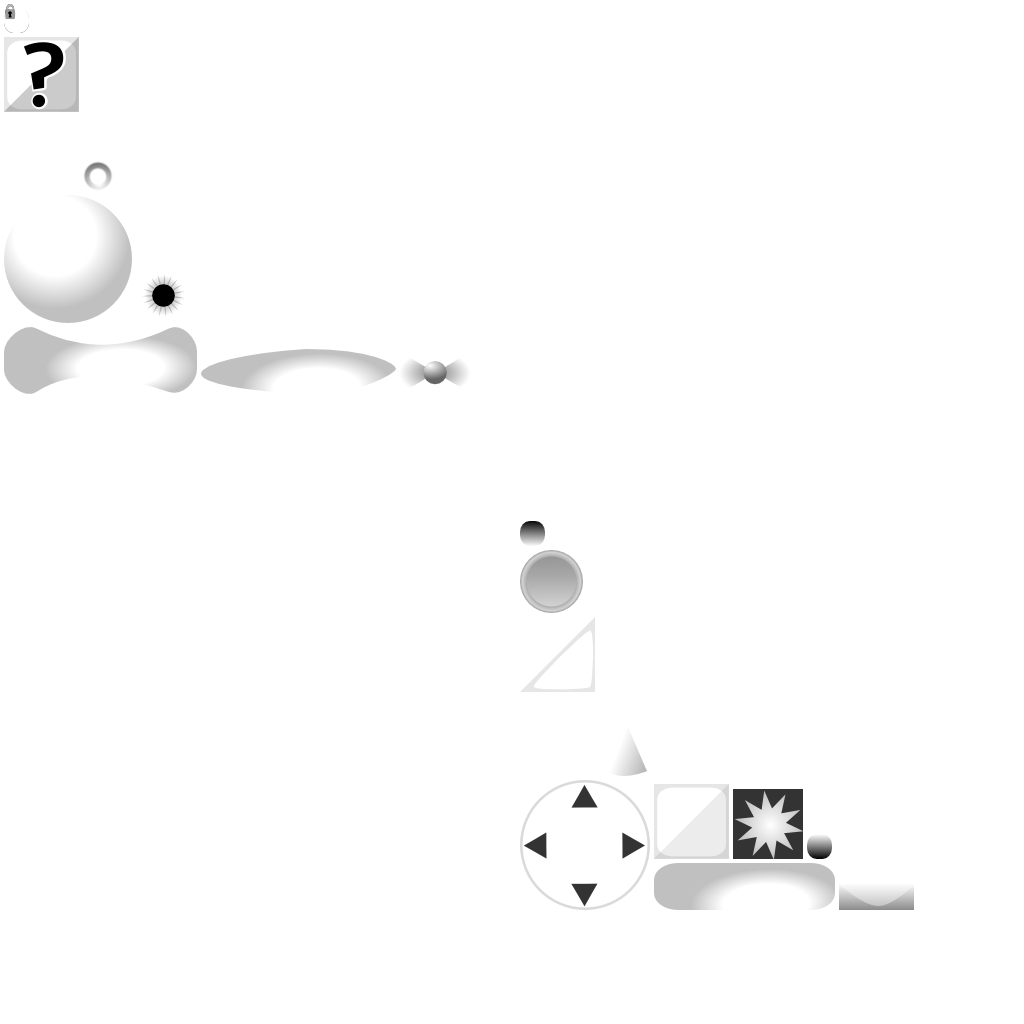
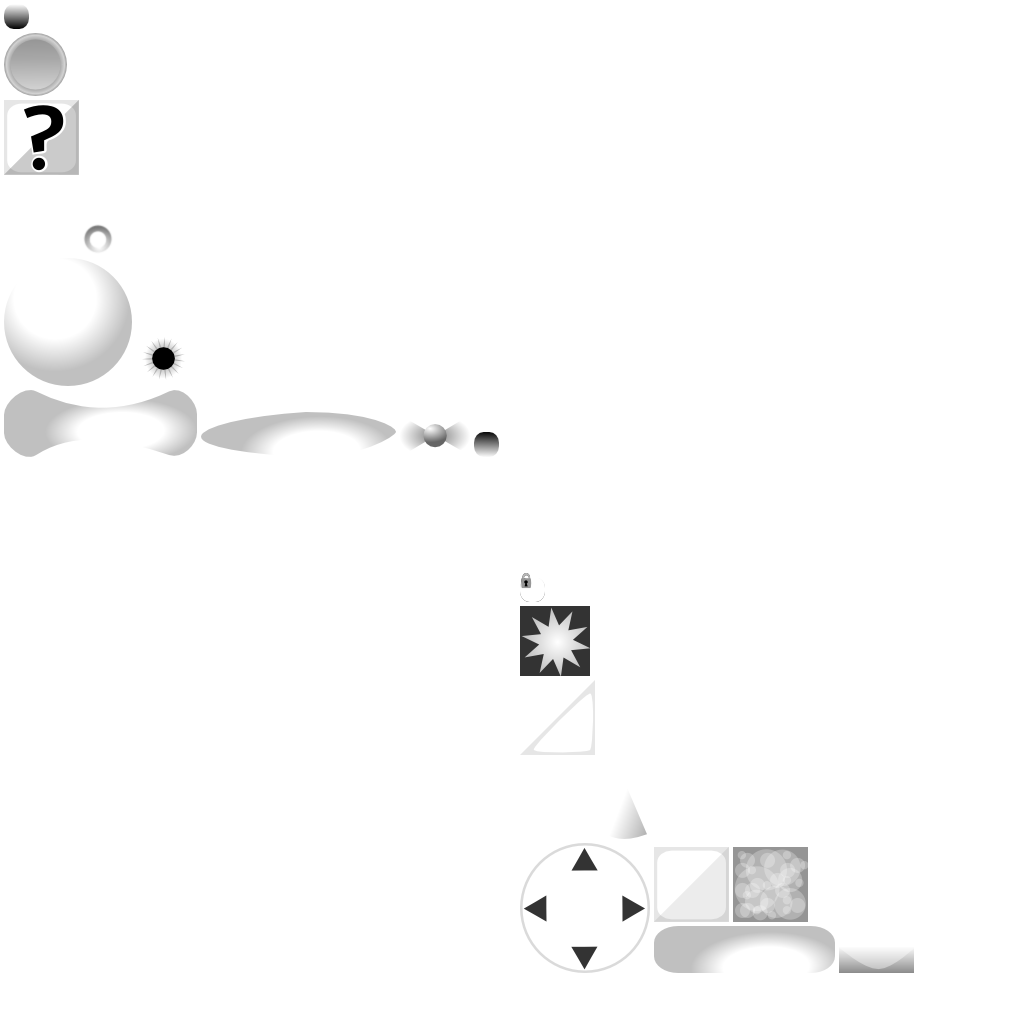
Added lavagit add .!

diff --git a/core/src/com/morejesuslessme/tnelsond/unmutate/Level.java b/core/src/com/morejesuslessme/tnelsond/unmutate/Level.java
@@ -21,7 +21,7 @@ import java.lang.Character;
 import com.morejesuslessme.tnelsond.unmutate.genome.*;
 
 public class Level implements Json.Serializable{
-	public AtlasRegion dirt, slant, grass, end, block, hint, eye;
+	public AtlasRegion dirt, slant, grass, end, block, hint, eye, lava;
 	public int w = 12;
 	public int h = 16;
 	public int tile = 32;
@@ -40,6 +40,7 @@ public class Level implements Json.Serializable{
 	public Color dirtColor = new Color(.4f, 0.2f, 0, 1);
 	public Color dirtColor2 = new Color(.3f, 0.16f, 0, 1);
 	public Color grassColor = new Color(.2f, .5f, 0, 1);
+	public Color lavaColor = new Color(.9f, .0f, 0, 1);
 	public Color skyColor = new Color(.4f, .8f, 1, 1);
 	public Color hintColor = new Color(0f, .3f, 1, 1);
 	public ChromosomePair[][] chromosomes;
@@ -137,6 +138,12 @@ public class Level implements Json.Serializable{
 				grassColor.g = colors[1];
 				grassColor.b = colors[2];
 			}
+			else if(js.name().equals("lava")){
+				float[] colors = js.asFloatArray();
+				lavaColor.r = colors[0];
+				lavaColor.g = colors[1];
+				lavaColor.b = colors[2];
+			}
 			else if(js.name().equals("sky")){
 				float[] colors = js.asFloatArray();
 				skyColor.r = colors[0];
@@ -201,7 +208,7 @@ public class Level implements Json.Serializable{
 						else if(ch == '*'){
 							blocks[row][col] = Level.END;
 						}
-						else if(ch == '^'){
+						else if(ch == '='){
 							blocks[row][col] = Level.DEATH;
 						}
 						else if(ch == '$'){
@@ -271,6 +278,7 @@ public class Level implements Json.Serializable{
 		dirt = atlas.findRegion("dirt");
 		slant = atlas.findRegion("dirtslant");
 		grass = atlas.findRegion("grass");
+		lava = atlas.findRegion("lava");
 		end = atlas.findRegion("end");
 		block = atlas.findRegion("block");
 		eye = atlas.findRegion("eye");
@@ -332,6 +340,10 @@ public class Level implements Json.Serializable{
 							tex = eye;
 						else
 							tex = block;
+					}
+					else if(blocks[r][c] == Level.DEATH){
+						tex = lava;
+						batch.setColor(lavaColor);
 					}
 					else if(blocks[r][c] == Level.END){
 						tex = end;

diff --git a/core/src/com/morejesuslessme/tnelsond/unmutate/Creature.java b/core/src/com/morejesuslessme/tnelsond/unmutate/Creature.java
@@ -321,6 +321,9 @@ public class Creature extends Rectangle{
 			while(col.hasNext()) {
 				c = (Integer) col.next();
 				int b = level.blocks[r][c];
+				if(b == Level.DEATH){
+					dead = true;
+				}
 				if(b == Level.END){
 					ascend = true;
 				}
